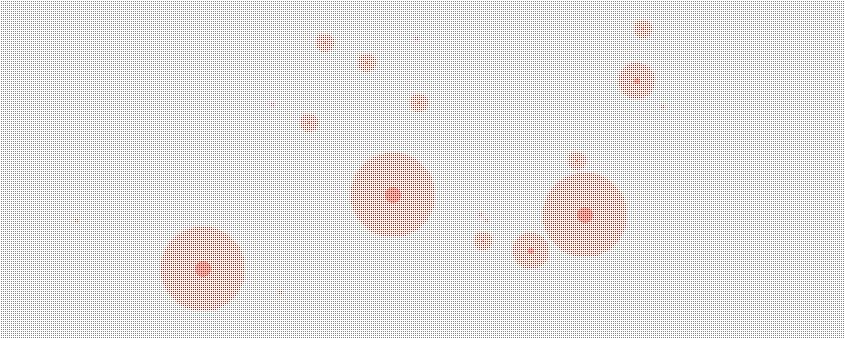
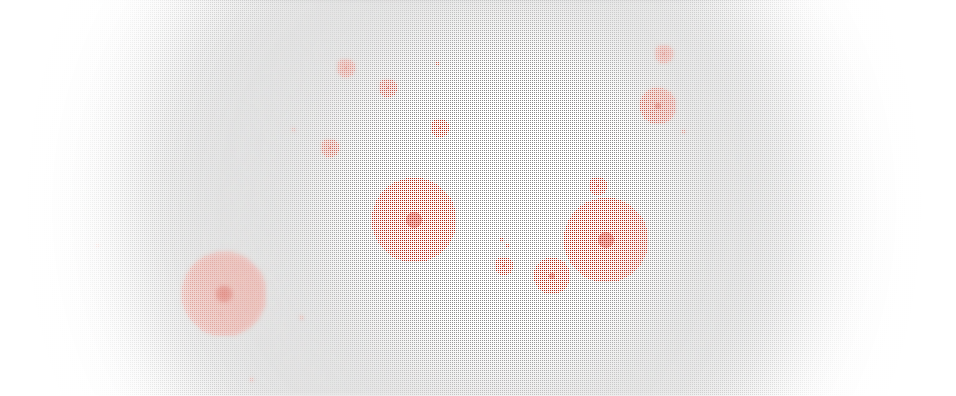
intro image updated

diff --git a/README.md b/README.md
@@ -12,7 +12,7 @@ Viele von uns kennen mittlerweile diese Fragen und Diskussionen. Auch ich selbst
 Auf der Suche nach Antworten, habe ich mich ebenfalls bei den alternativen Medien umgeschaut. Für einen Nerd wie mich, sind es vor Allem **Daten** und **Algorithmen**. 
 Dies hat mich dazu bewogen eine eigene **COVID19 Simulation** zu entwickeln. 
 
-![covid simulation](src/assets/intro.jpg "covid 19 simulation")
+![covid simulation](src/assets/intro.png "covid 19 simulation")
 
 ## COVID19 Simulation
 
